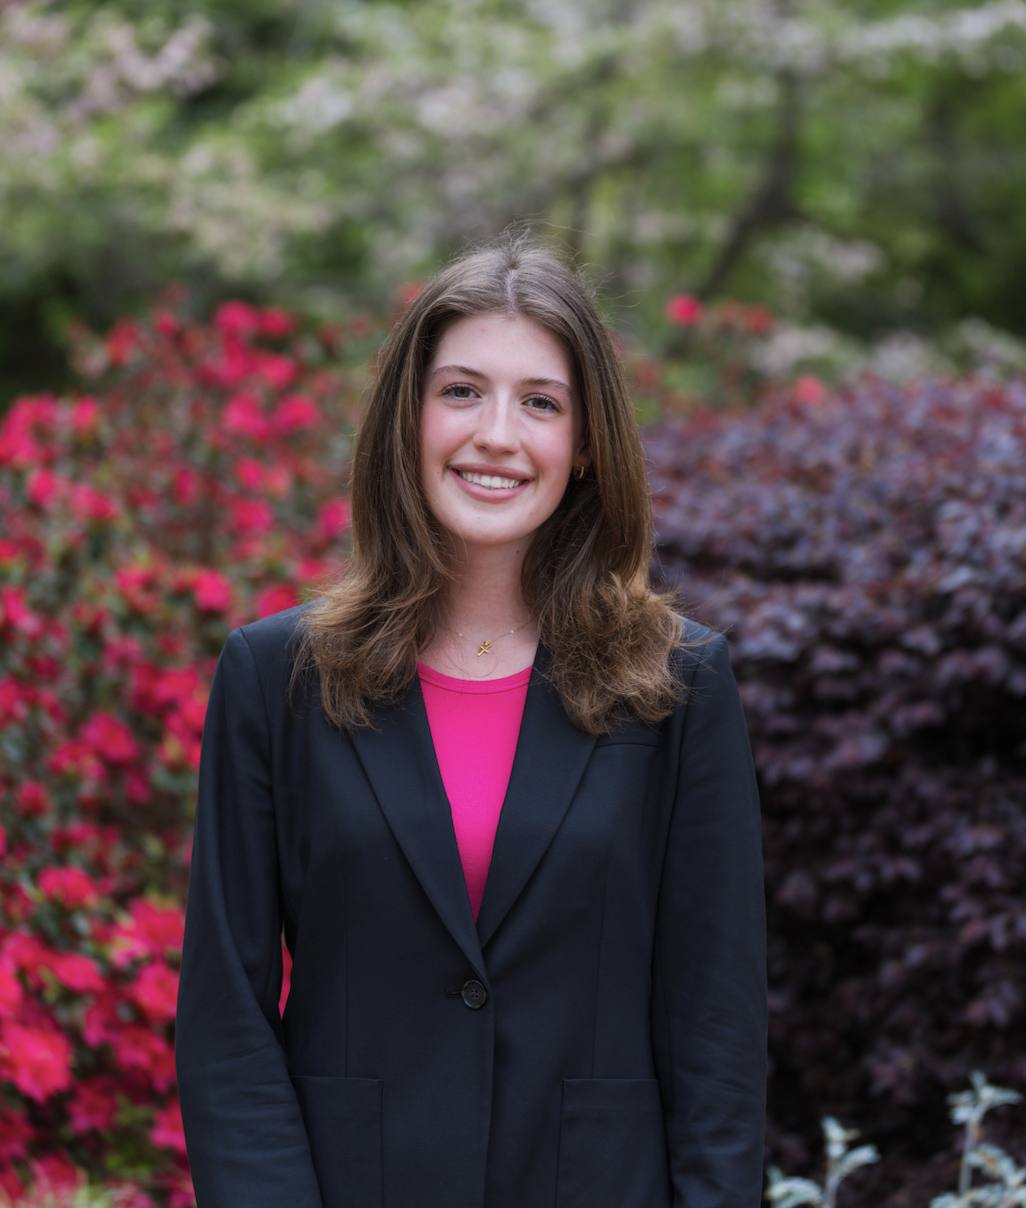
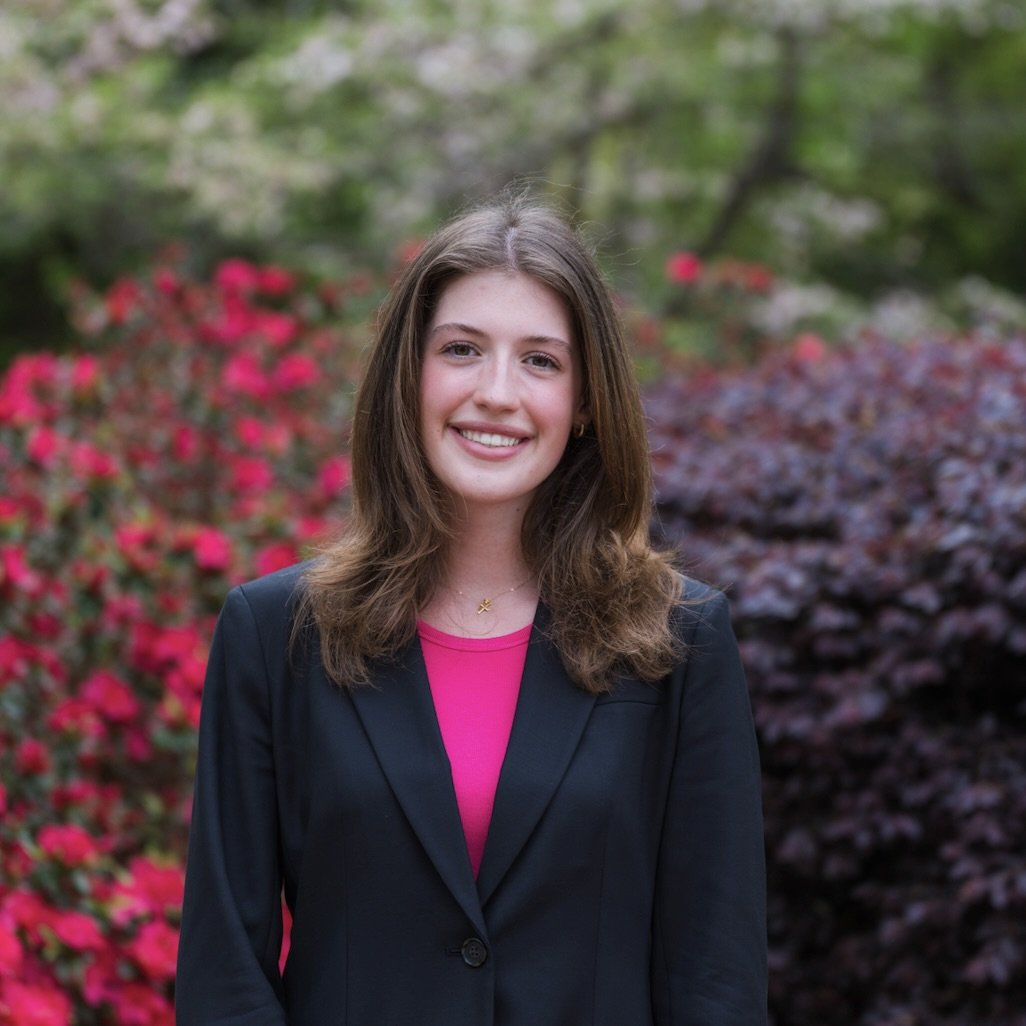
"Fixed headshot size"

diff --git a/index.html b/index.html
@@ -8,7 +8,7 @@
 
         <div id="flex-container">
             <h1>Hey, I'm Caroline Bryan!</h1>
-            <img src="HEADSHOT.jpeg" alt="headshot" width="260" height="300">
+            <img src="HEADSHOT.jpeg" alt="headshot" width="300" height="300">
             
         </div>
         <div id="flex-col">
